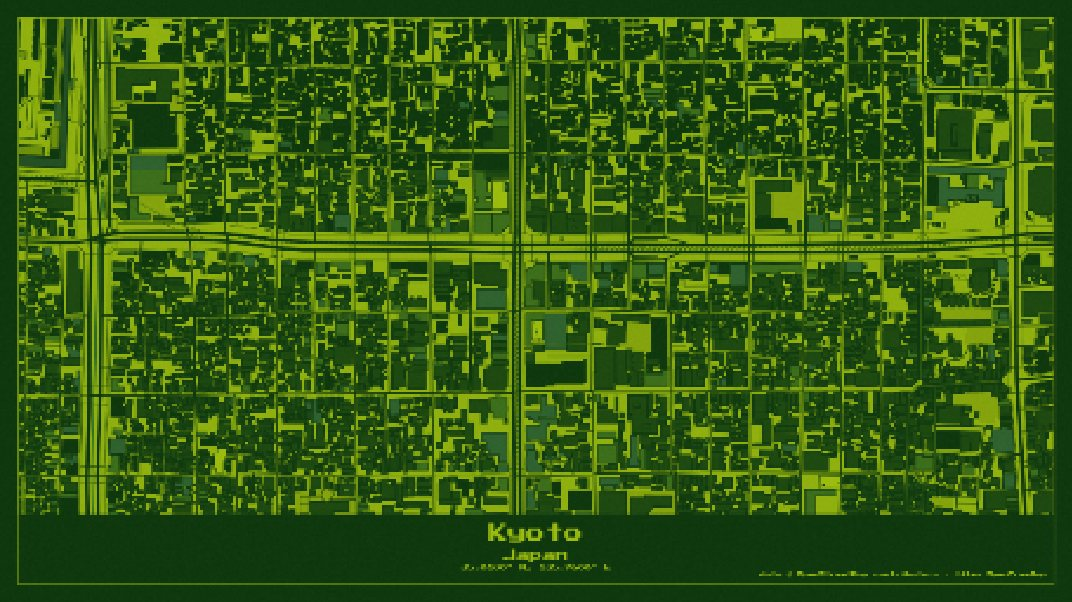
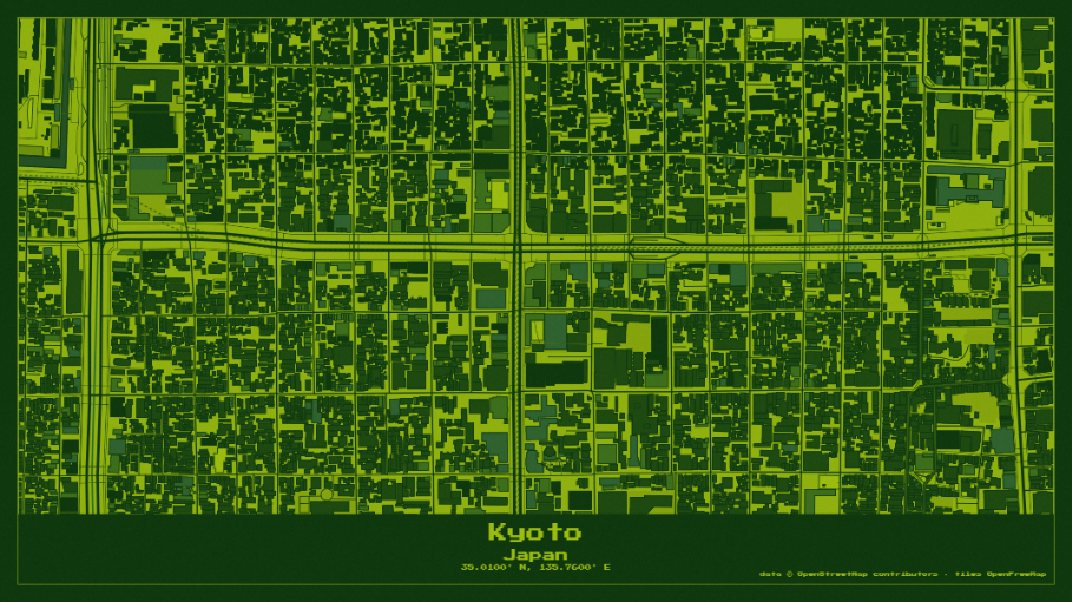
Refresh the 8-bit gallery image and rebuild the credits table

Changed region(s): [[0.0, 0.0299, 0.9851, 0.9568], [0.708, 0.9269, 0.8619, 0.9568], [0.8927, 0.9269, 0.9851, 0.9568]]

diff --git a/README.md b/README.md
@@ -169,35 +169,50 @@ Bigger plans such as 3D terrain, map ornaments and SVG or PDF export are listed 
 
 ### Style inspirations
 
-The historic maps are long out of copyright, but their makers are named here anyway. Styles marked
-*original* are new designs, so there is nobody to credit.
+One row per style, in the order they appear in the app. The historic maps are long out of copyright, but
+their makers are named here anyway. Styles marked *original* are new designs, so there is nobody to credit.
 
-| Style | Credit |
+| Style | Inspiration |
 |---|---|
-| Heerhugowaard | the `heerhugowaard` preset from [prettymaps](https://github.com/marceloprates/prettymaps) by Marcelo Prates |
-| Peach, Auburn, Citrus | the colour themes of the same names in [prettymapp](https://github.com/chrieke/prettymapp) by Christoph Rieke |
-| Nolli | Giambattista Nolli, *Nuova Pianta di Roma*, 1748 |
-| Sanborn | Sanborn fire-insurance maps, 1867–1970s |
-| Snow | John Snow, cholera map of Soho, 1854 |
-| Booth | Charles Booth, *Descriptive Map of London Poverty*, 1889 |
-| Ordnance | Ordnance Survey first edition, 1840s–80s |
-| Harry Beck | Harry Beck, London Underground diagram, 1933 |
-| Vignelli | Massimo Vignelli, New York City subway map, 1972 |
-| Soviet Topo | Soviet military topographic maps |
-| Ukiyo-e | Edo-period Japanese woodblock maps |
-| Bauhaus | the Bauhaus school and Swiss International Style |
-| Art Deco | 1920s–30s Art Deco poster design |
-| Blueprint, Cyanotype | architectural blueprints; Anna Atkins' cyanotype photograms, 1840s |
-| Stained Glass | Gothic stained-glass windows |
-| Risograph, Linocut | risograph zines and linocut printmaking |
-| Watercolor | painted map washes, in the spirit of [Stamen Watercolor](https://maps.stamen.com) |
-| Toner | [Stamen Toner](https://maps.stamen.com) |
-| Night | [CARTO Dark Matter](https://carto.com/basemaps) |
-| Starry Night | Vincent van Gogh, *The Starry Night*, 1889 |
-| GMaps Dark, Search | the design philosophy of Google Maps |
-| Drive | the design philosophy of Waze |
-| Here | the design philosophy of HERE Maps |
-| Pencil, Pastel, Sakura, Solarpunk, Dune, Nordic, Neon, Synthwave, Brutalist, Circuit, 8-bit | *original* |
+| Nolli | After Giambattista Nolli, Nuova Pianta di Roma (1748) |
+| Sanborn | After the Sanborn fire-insurance maps (1867–1970s) |
+| Snow | After John Snow's cholera map of Soho (1854) |
+| Booth | After Charles Booth's Descriptive Map of London Poverty (1889) |
+| Ordnance | After the Ordnance Survey first edition (1840s-80s) |
+| Harry Beck | After Harry Beck's London Underground diagram (1933) |
+| Vignelli | After Massimo Vignelli's New York City subway map (1972) |
+| Blueprint | After architectural cyanotype blueprints |
+| Cyanotype | After Anna Atkins' cyanotype photograms (1840s) |
+| Soviet Topo | After Soviet military topographic maps |
+| Bauhaus | After the Bauhaus school and Swiss International Style |
+| Art Deco | After 1920s-30s Art Deco posters |
+| Ukiyo-e | After Edo-period Japanese woodblock maps |
+| Stained Glass | *original* - Gothic stained-glass windows |
+| Starry Night | After Vincent van Gogh, The Starry Night (1889) |
+| Risograph | After risograph and screenprinted zines |
+| Linocut | *original* - carved linoleum block prints |
+| Pencil | *original* - graphite sketchbook |
+| Watercolor | Inspired by [Stamen Watercolor](https://maps.stamen.com) |
+| Pastel | *original* - soft pastels on warm beige |
+| Sakura | *original* - cherry blossom in spring |
+| Solarpunk | *original* - the solarpunk palette of sun and greenery |
+| Dune | *original* - desert ochres and deep shade |
+| Nordic | *original* - pale northern light |
+| Toner | Inspired by [Stamen Toner](https://maps.stamen.com) |
+| Night | Inspired by [CARTO Dark Matter](https://carto.com/basemaps) |
+| Neon | *original* - neon signs after dark |
+| GMaps Dark | Inspired by the dark mode of Google Maps |
+| Search | Inspired by the light mode of Google Maps |
+| Drive | Inspired by the design philosophy of Waze |
+| Here | Inspired by the design philosophy of HERE Maps |
+| Synthwave | *original* - 80s retro-futurism |
+| Brutalist | *original* - raw concrete architecture |
+| Circuit | *original* - printed circuit boards |
+| 8-bit | *original* - handheld pixel-art games |
+| Heerhugowaard | Tribute to [prettymaps](https://github.com/marceloprates/prettymaps) by Marcelo Prates |
+| Peach | The Peach theme from [prettymapp](https://github.com/chrieke/prettymapp) by Christoph Rieke |
+| Auburn | The Auburn theme from [prettymapp](https://github.com/chrieke/prettymapp) by Christoph Rieke |
+| Citrus | The Citrus theme from [prettymapp](https://github.com/chrieke/prettymapp) by Christoph Rieke |
 
 The map-app styles take inspiration from how those maps are designed. They do not copy any assets, code or
 map styles, and this project is not affiliated with or endorsed by those companies.
